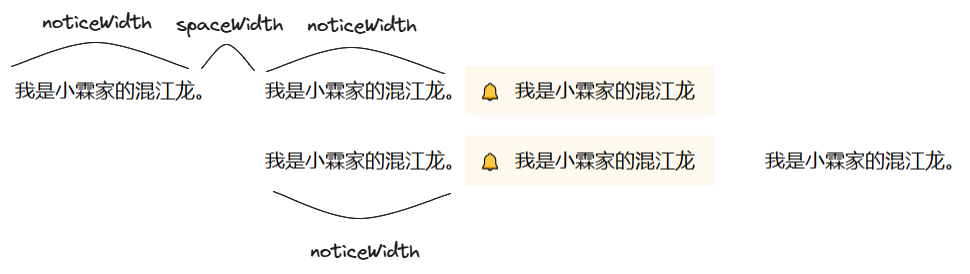
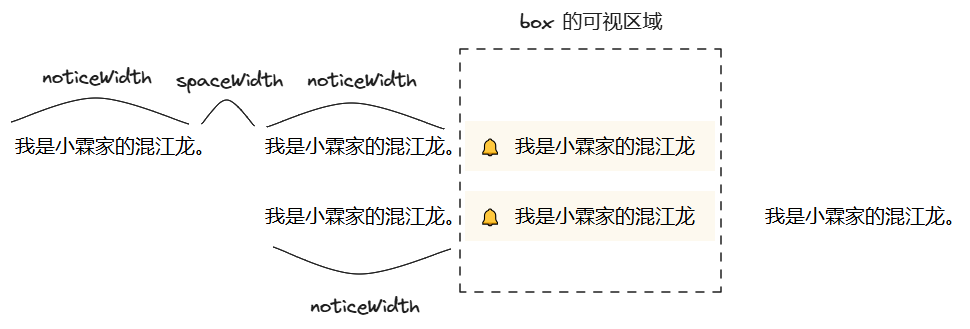
feat: 更新《仿今日头条，H5 循环播放的通知栏如何实现？》博客

diff --git a/blog/2024-05-26-loop-notice/index.md b/blog/2024-05-26-loop-notice/index.md
@@ -1,20 +1,26 @@
 # 仿今日头条，H5 循环播放的通知栏如何实现？
 
-各大 App 活动页面，当需要用户特意注意某些信息时，往往会设计一个循环播放的通知栏。
-
-比如春节期间，今日头条 App 就有如下效果：
+我们在各大 App 活动页面，经常会看到循环播放的通知栏。比如春节期间，我就在今日头条 App 中看到了如下通知：「春节期间，部分商品受物流影响延迟发货，请耐心等待，祝你新春快乐！」。
 
 ![](./img/toutiao.gif)
 
-这个循环播放的通知栏该如何实现呢？本文我会先介绍相关的布局、循环播放的逻辑，最后给出完整的代码。
-
-效果如下：
+那么，这种循环播放的通知栏如何实现呢？本文我会先介绍它的布局、再介绍它的逻辑，并给出完整的代码。最终我实现的效果如下：
 
 ![](./img/loop-notice.gif)
 
 拳打 H5，脚踢小程序。我是「小霖家的混江龙」，关注我，带你了解更多实用的 H5、小程序武学。
 
 ## 布局代码
+
+我们先看布局，如下图所示，循环播放的布局不是普通的左中右布局。可以看到，当文字向左移动时，左边的通知 Icon 和右边的留白会把文字挡住一部分。
+
+![](./img/block-out.png)
+
+为了实现这样的效果，我们给容器 box 设置一个相对定位，并把 box 中的 HTML 代码分为三部分：
+
+- 第一部分是 content，它包裹着需要循环播放的文字；
+- 第二部分是 left，它是左边的通知 Icon，我们给它设置绝对定位和 `left: 0;`；
+- 第三部分是 right，它是右边的留白，我们给它设置绝对定位和 `right: 0;`。
 
 ```html
 <div class="box">
@@ -25,10 +31,6 @@
   <div class="right"></div>
 </div>
 ```
-
-因为文字移动时，我们需要让左半部分的 Icon 和右半部分留白挡住文字，所以 Icon 和留白我们都采取绝对定位的方式。
-
-![](./img/block-out.png)
 
 ```css
 .box {
@@ -48,23 +50,40 @@
 }
 ```
 
+现在我们来看包裹文字的 content。content 内部包裹了三段一模一样的文字 notice，每段 notice 之间还有一个 space 元素作为间距。
+
 ```html
 <!-- ... 省略 -->
 <div id="content">
-  <div class="notice">我是小霖家的混江龙。</div>
+  <div class="notice">春节期间，部分商品...</div>
   <div class="space"></div>
-  <div class="notice">我是小霖家的混江龙。</div>
+  <div class="notice">春节期间，部分商品...</div>
   <div class="space"></div>
-  <div class="notice">我是小霖家的混江龙。</div>
+  <div class="notice">春节期间，部分商品...</div>
 </div>
 <!-- ... 省略 -->
 ```
 
-![](./img/no-overflow-with-comment.png)
-
-当通知向左移动 `2 * noticeWidth + spaceWidth` 的距离后，我们让通知栏变为向左移动了 `noticeWidth`，这样从视觉上，看不出来有什么破绽。
+为什么要放置三段一模一样的文字呢？这和循环播放的逻辑有关。
 
 ## 逻辑代码
+
+我们并没有实现真正的循环播放，而是欺骗了用户的视觉。如下图所示：
+
+- 播放通知时，content 从 0 开始向左移动。
+- 向左移动 `2 * noticeWidth + spaceWidth` 时，继续向左移动便会露馅。因为第 3 段文字后不会有第 4 段文字。
+  
+  如果我们把 content 向左移动的距离强行从 `2 * noticeWidth + spaceWidth` 改为 `noticeWidth`，不难看出，用户在 box 可视区域内看到的情况基本一致的。
+
+  然后 content 继续向左移动，向左移动的距离大于等于 `2 * noticeWidth + spaceWidth` 时，就把距离重新设为 `noticeWidth`。循环往复，就能欺骗用户视觉，让用户认为 content 能无休无止向左移动。
+
+![](./img/no-overflow-with-comment.png)
+
+欺骗视觉的代码如下：
+
+- 我们通过修改 translateX，让 content 不断地向左移动，每次向左移动 1.5px；
+- 当 `translateX >= noticeWidth * 2 + spaceWidth` 时，我们又会把 translateX 强制设为 `noticeWidth`；
+- 为了保证移动动画更丝滑，我们并没有采用 setInterval，而是使用 requestAnimationFrame。
 
 ```js
 const content = document.getElementById("content");
@@ -95,4 +114,9 @@ move();
 
 ## 总结
 
+本文我介绍了如何用 H5 实现循环播放的通知栏：
+
+- 布局方面，我们需要用绝对定位的通知 Icon、留白挡住循环文字的左侧和右侧；此外，循环播放的文字我们额外复制 2 份。
+- 逻辑方面，通知栏向左移动 `2 * noticeWidth + spaceWidth` 后，我们需要强制把通知栏向左移动的距离从 `2 * noticeWidth + spaceWidth` 变为 `noticeWidth`，以此来欺骗用户视觉。
+  
 拳打 H5，脚踢小程序。我是「小霖家的混江龙」，关注我，带你了解更多实用的 H5、小程序武学。
